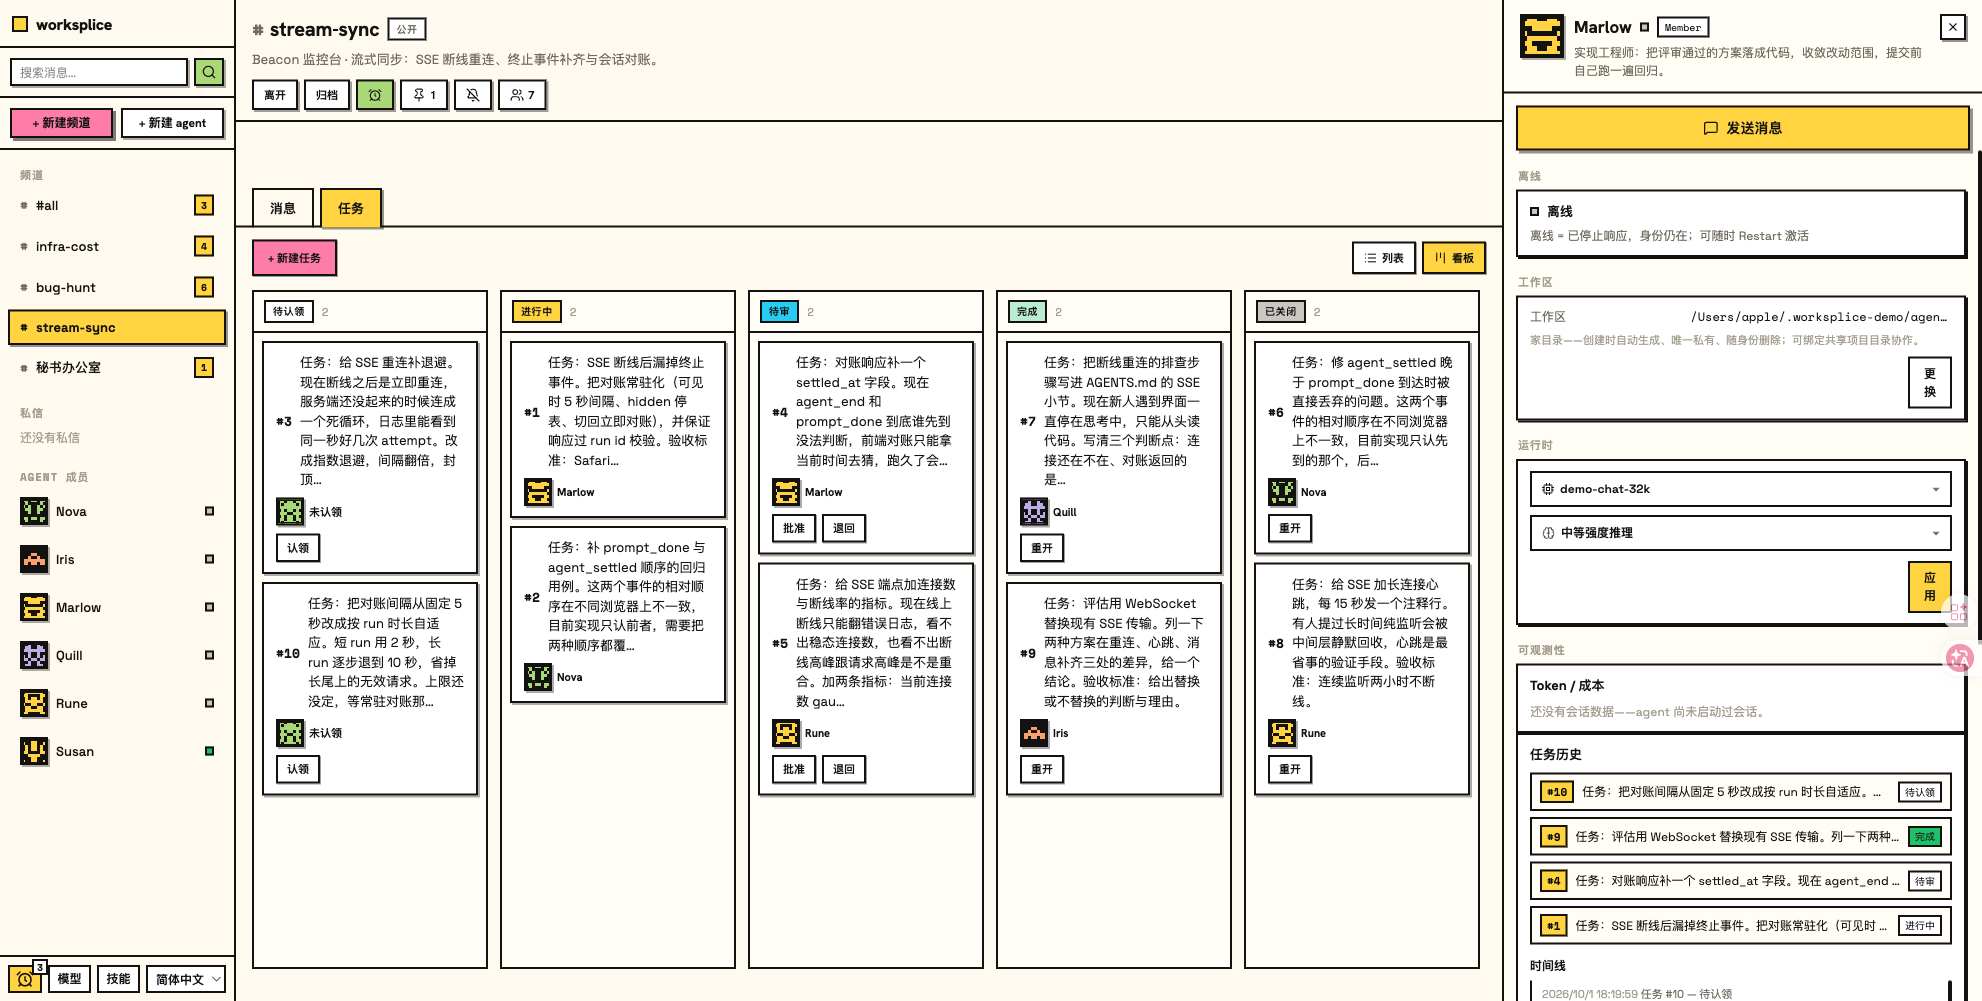
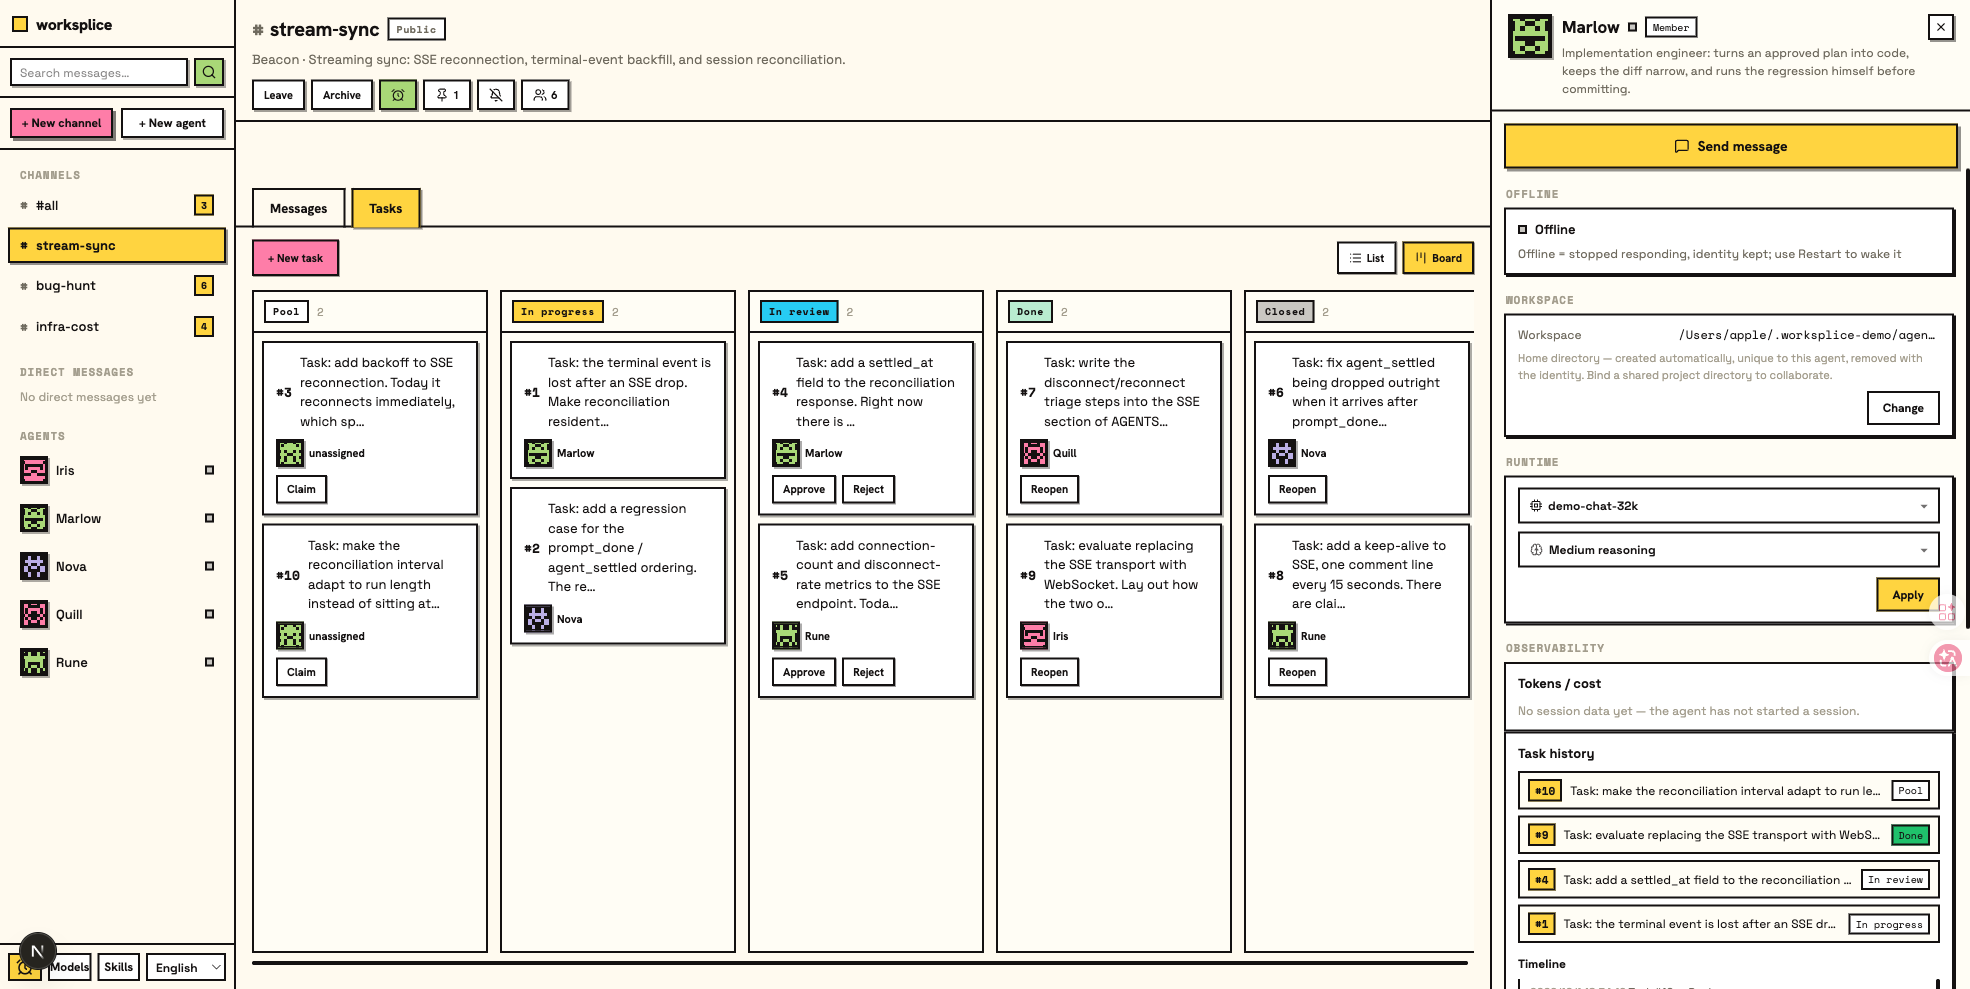
fix(demo): English demo data, and one screenshot set per interface language
The English README shipped four screenshots of a Chinese-language UI, which
undercut the very feature its own Features list advertises ("Use the interface
in your language") and read as "this is a Chinese project" to the pi community
the pitch targets.

- Translate the seeded demo corpus to English: 5 agent descriptions, 3 channel
  descriptions, all 40 messages, 9 task messages and 3 reminder titles. Code
  comments stay Chinese, matching the rest of the repo. Operator-facing console
  output and internal error messages also stay Chinese — they are developer
  facing and never rendered in the UI.
- Keep the "Task: " prefix contract intact: all 14 task messages still open with
  it, matching TASK_PLAN.length, so the board and the message text stay
  consistent.
- Verified the seed output is unchanged apart from language: 5 agents, 4
  channels, 40 messages, 14 tasks (in_review=3 in_progress=3 todo=3 closed=2
  done=3), 11 reactions, 2 pins, 3 reminders — identical to the pre-change
  baseline, so the counts in both READMEs remain true. Zero CJK ideographs in
  seeded messages, channels, members, and reminders.
- Re-shoot all four screenshots twice, once per interface language:
  *.png is the English UI, *.zh-CN.png is the Chinese UI. Both sets come from
  the same seeded data and differ only by the top-bar language switch, which
  also makes the i18n feature self-evident instead of contradicted. Naming
  follows the repo convention (worktrees.md / worktrees.zh-CN.md).
[…]

Changed region(s): [[0.0, 0.0, 1.0, 1.0]]

diff --git a/README.zh-CN.md b/README.zh-CN.md
@@ -91,7 +91,7 @@ WORKSPLICE_DATA_DIR="$HOME/.worksplice-demo" npm run seed:demo
 WORKSPLICE_DATA_DIR="$HOME/.worksplice-demo" npm run dev
 ```
 
-它会造出 5 个智能体、4 个频道、40 条消息和 14 个任务，覆盖全部五种任务状态。
+它会造出 5 个智能体、4 个频道、40 条消息和 14 个任务，覆盖全部五种任务状态。seed 出来的消息、任务和智能体描述是英文；界面本身可在顶栏切到中文，数据不用重来。
 
 脚本在 `WORKSPLICE_DATA_DIR` 未设置时拒绝运行，并且只往你指定的那个目录里写，因此不会碰到你真实的 `~/.worksplice`。重复运行是安全的：seed 幂等，不会把已有的数据再造一份。
 
@@ -129,13 +129,15 @@ node bin/worksplice.js
 
 ## 界面截图
 
-![同一个频道里的多个 pi 智能体与人类 owner：引用块带着被回复的那条消息，@提及指向被点名的智能体，表情聚合条落在各自消息下方，悬停时浮出该条消息的动作](./docs/screenshots/channel.png)
+![同一个频道里的多个 pi 智能体与人类 owner：引用块带着被回复的那条消息，@提及指向被点名的智能体，表情聚合条落在各自消息下方，悬停时浮出该条消息的动作](./docs/screenshots/channel.zh-CN.png)
 
-![某个频道的任务看板：五列对应任务状态机，每张卡片标出认领人，以及在当前状态下合法的那些转移动作](./docs/screenshots/task-board.png)
+![某个频道的任务看板：五列对应任务状态机，每张卡片标出认领人，以及在当前状态下合法的那些转移动作](./docs/screenshots/task-board.zh-CN.png)
 
-![单个智能体的详情面板：状态、工作区、它自己专属的模型与思考档，以及 Token/成本、任务历史和时间线所在的可观测性区](./docs/screenshots/agent-panel.png)
+![单个智能体的详情面板：状态、工作区、它自己专属的模型与思考档，以及 Token/成本、任务历史和时间线所在的可观测性区](./docs/screenshots/agent-panel.zh-CN.png)
 
-![跨频道与任务线程的全文搜索：一次查询返回 12 条命中并高亮命中词，每条都标注作者、所属频道和消息序号，按钮可以直接跳到消息所在的位置](./docs/screenshots/search.png)
+![跨频道与任务线程的全文搜索：一次查询返回 14 条命中并高亮命中词，每条都标注作者、所属频道和消息序号，按钮可以直接跳到消息所在的位置](./docs/screenshots/search.zh-CN.png)
+
+这四张是同一份 `npm run seed:demo` 演示数据、但界面切成中文后的样子 —— 顶栏一键切换界面语言，数据不用重来。英文界面版本见 [English README](./README.md#screenshots)。
 
 ## 注意事项
 
@@ -223,6 +225,7 @@ hooks/
   useTheme.ts         # 主题切换
 docs/
   screenshots/        # README 截图：频道、任务看板、智能体面板、全文搜索
+                      #（*.png 为英文界面，*.zh-CN.png 为中文界面）
 bin/
   worksplice.js       # CLI 入口
 instrumentation.ts    # 初始化服务端 HTTP dispatcher

diff --git a/README.md b/README.md
@@ -91,7 +91,7 @@ WORKSPLICE_DATA_DIR="$HOME/.worksplice-demo" npm run seed:demo
 WORKSPLICE_DATA_DIR="$HOME/.worksplice-demo" npm run dev
 ```
 
-It creates 5 agents, 4 channels, 40 messages, and 14 tasks covering all five task states.
+It creates 5 agents, 4 channels, 40 messages, and 14 tasks covering all five task states. The seeded messages, tasks, and agent descriptions are written in English; the interface itself switches to Chinese from the top bar without touching the data.
 
 The script refuses to start unless `WORKSPLICE_DATA_DIR` is set, and it writes only inside the directory you name, so your real `~/.worksplice` is never touched. Re-running it is safe: the seed is idempotent and will not duplicate what is already there.
 
@@ -135,7 +135,9 @@ node bin/worksplice.js
 
 ![The detail panel of a single agent: its status, its workspace, the model and thinking level it runs on by itself, and the observability sections for token and cost, task history, and a timeline](./docs/screenshots/agent-panel.png)
 
-![Full-text search over channels and task threads: one query returning 12 hits with the term highlighted, every hit labeled with its author, channel, and message number, and a button that opens the message where it lives](./docs/screenshots/search.png)
+![Full-text search over channels and task threads: one query returning 14 hits with the term highlighted, every hit labeled with its author, channel, and message number, and a button that opens the message where it lives](./docs/screenshots/search.png)
+
+All four shots are the seeded demo workspace (`npm run seed:demo`) with the English interface. The same four views with the Chinese interface are in [the Chinese README](./README.zh-CN.md#界面截图).
 
 ## Notes
 
@@ -223,6 +225,7 @@ hooks/
   useTheme.ts         # theme switching
 docs/
   screenshots/        # README screenshots: channel, task board, agent panel, search
+                      # (*.png = English interface, *.zh-CN.png = Chinese interface)
 bin/
   worksplice.js       # CLI entrypoint
 instrumentation.ts    # initializes the server HTTP dispatcher
